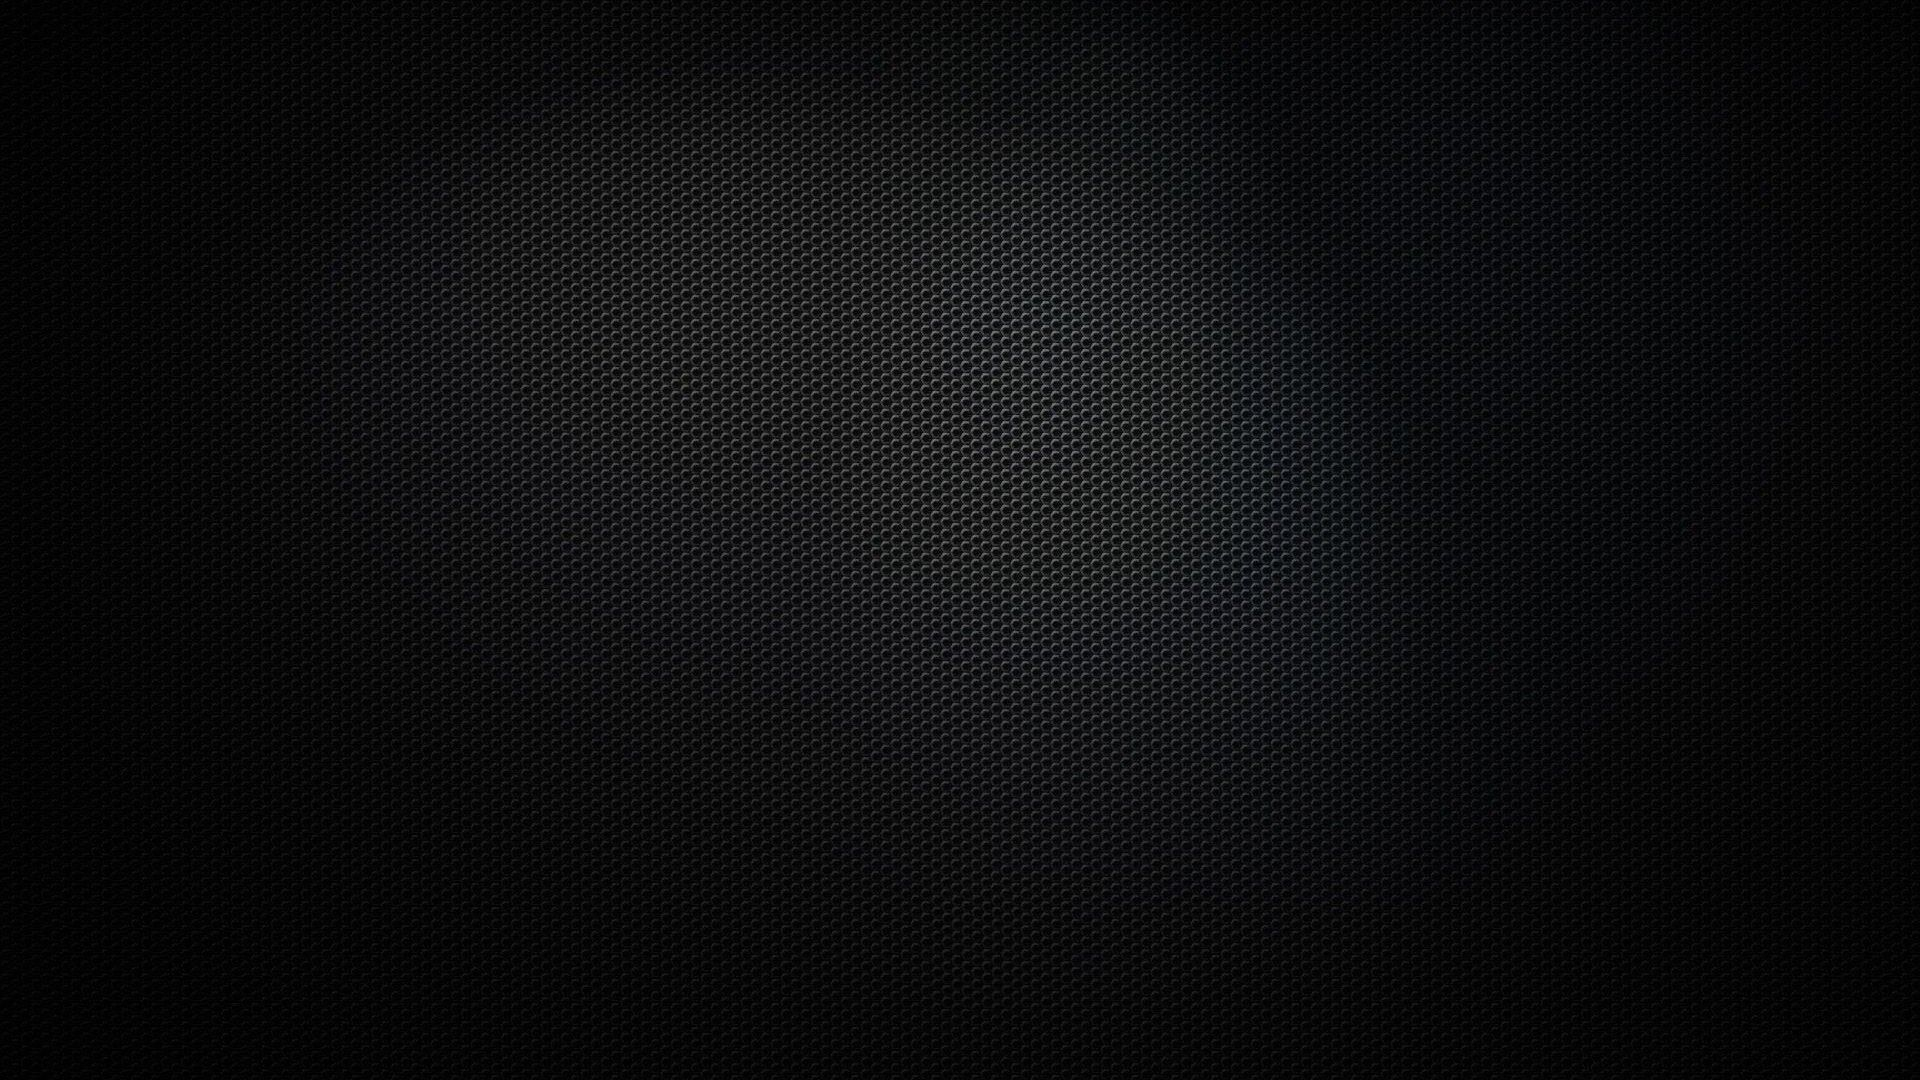
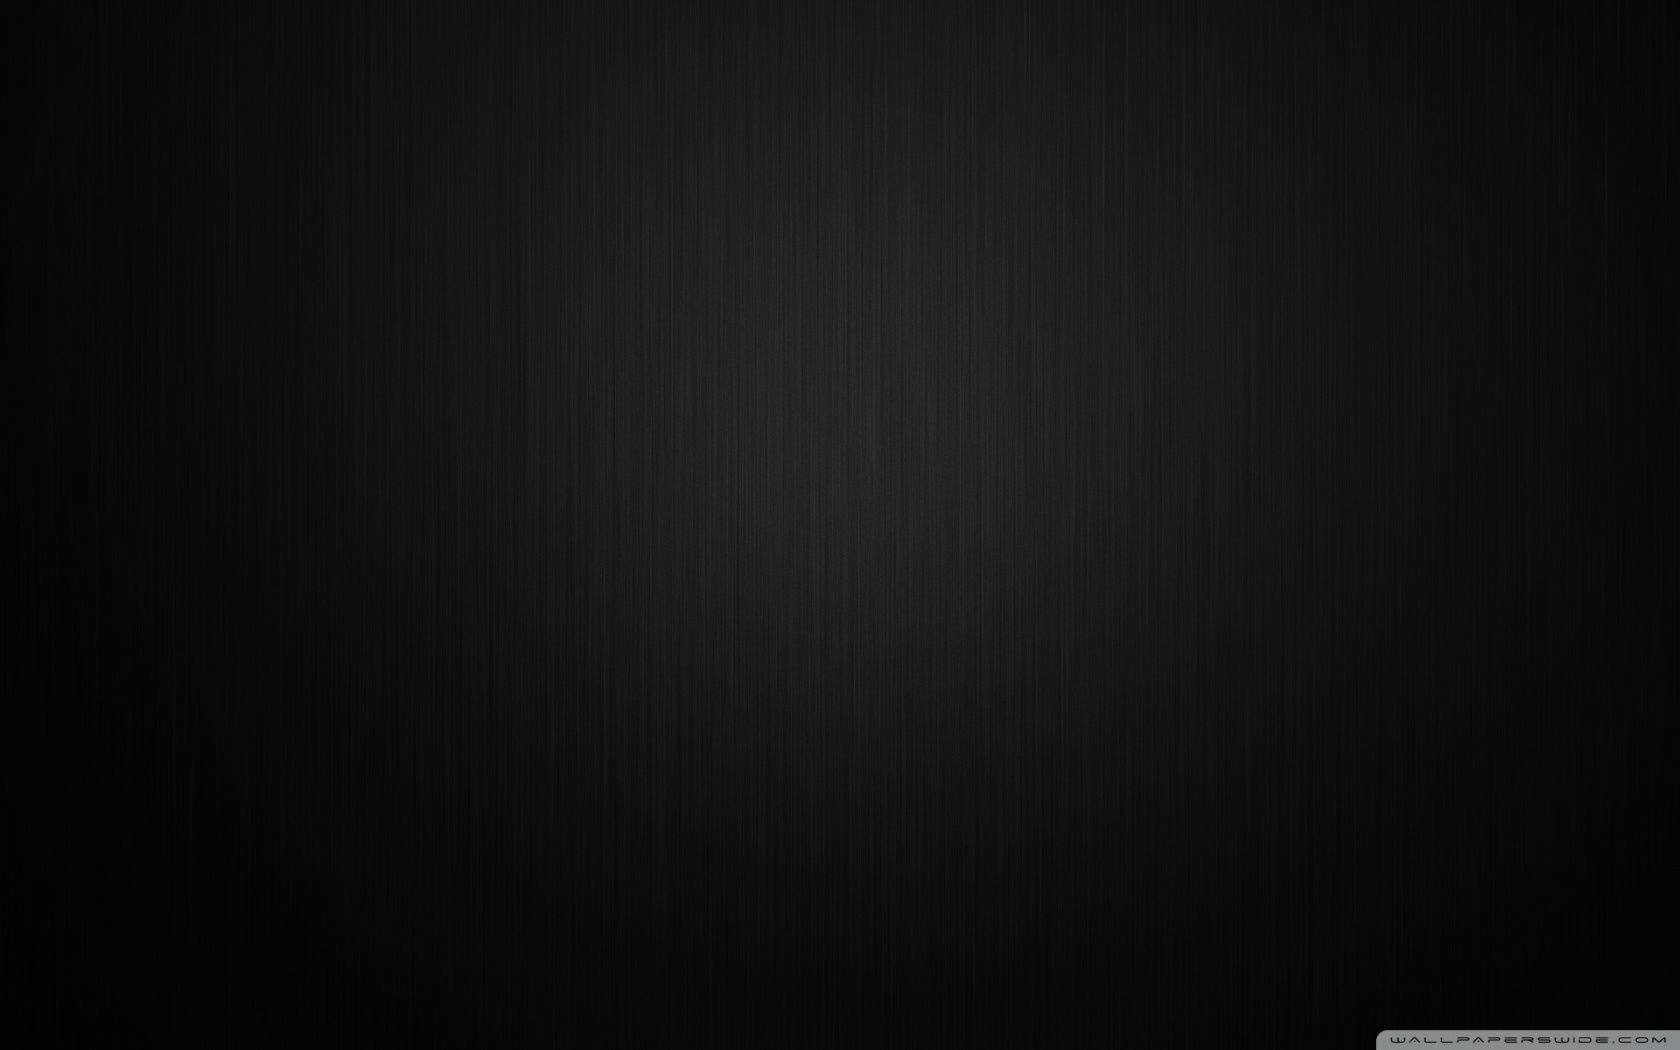
swap image for blackback.jpg and reimport

Changed region(s): [[0.1857, 0.0914, 0.7119, 0.7314], [0.8048, 0.9752, 1.0, 1.0]]

diff --git a/src/App.css b/src/App.css
@@ -14,7 +14,7 @@ h1, h2, h3 {
     padding: 20px;
     min-height: 100vh;
     color: #FFF;
-    background-image: url('/images/blackback.jpg');
+    background-image: url('/public/images/blackback.jpg');
     background-repeat: no-repeat;
     background-size: cover;
     background-position: center;
